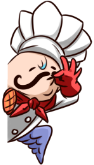
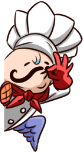
Add aloupeeps on the table

Changed region(s): [[0.0, 0.0, 1.0, 1.0]]

diff --git a/src/game/scenes/index.js b/src/game/scenes/index.js
@@ -10,6 +10,7 @@ import ImgReimu from '../assets/images/reimu.png';
 import ImgNina from '../assets/images/nina.png';
 import ImgRoom from '../assets/images/room.png';
 import ImgTable from '../assets/images/table.png';
+import ImgAptable from '../assets/images/aptable.png';
 import ImgMillie from '../assets/images/millie.png';
 import ImgPainting from '../assets/images/painting.png';
 import ImgPaintingColor from '../assets/images/painting-color.png';
@@ -60,6 +61,7 @@ class IndexScene extends Phaser.Scene {
     this.load.image('nina', ImgNina);
     this.load.image('room', ImgRoom);
     this.load.image('table', ImgTable);
+    this.load.image('aptable', ImgAptable);
     this.load.image('couch', ImgCouch);
     this.load.image('chef', ImgChef);
     this.load.image('playbtn', ImgPlaybtn);

diff --git a/src/data/elements.js b/src/data/elements.js
@@ -169,8 +169,8 @@ module.exports = {
   millie: {
     x: 0.69,
     y: 0.93,
-    z: 109,
-    str: 1.1,
+    z: 112,
+    str: 0.8,
     ox: 0.5,
     oy: 0.8,
     text: 'Confetti',
@@ -183,7 +183,7 @@ module.exports = {
     y: 0.83,
     z: 111,
     scale: 0.7,
-    str: 0.6,
+    str: 0.55,
     ox: 0.5,
     oy: 0.5,
     text: 'Happy Birthday!',
@@ -195,6 +195,16 @@ module.exports = {
     x: 0.5,
     y: 0.88,
     z: 110,
+    scale: 1,
+    str: 0.5,
+    ox: 0.5,
+    oy: 0.5,
+    dir: 'bottom',
+  },
+  aptable: {
+    x: 0.4735,
+    y: 0.828,
+    z: 111,
     scale: 1,
     str: 0.5,
     ox: 0.5,
